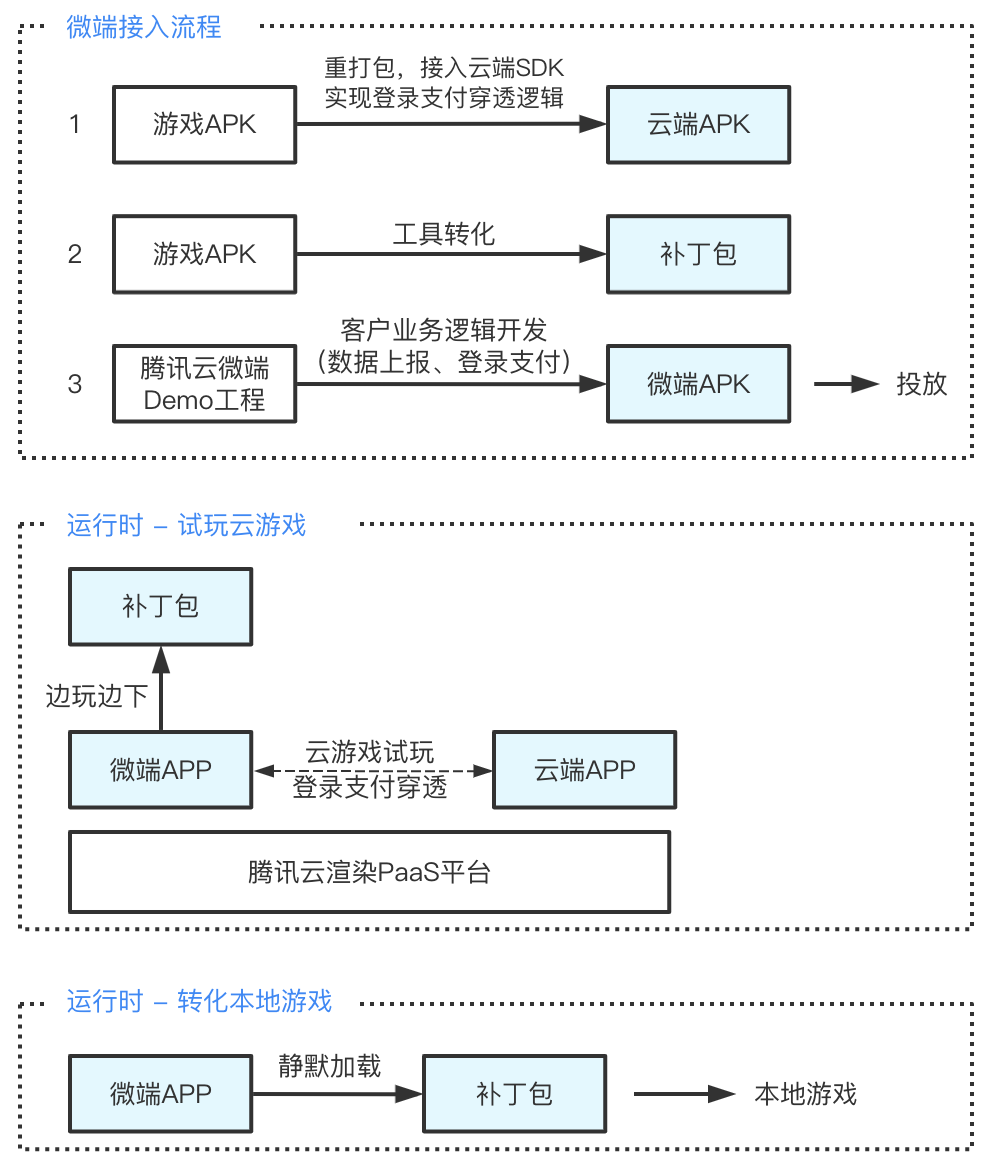
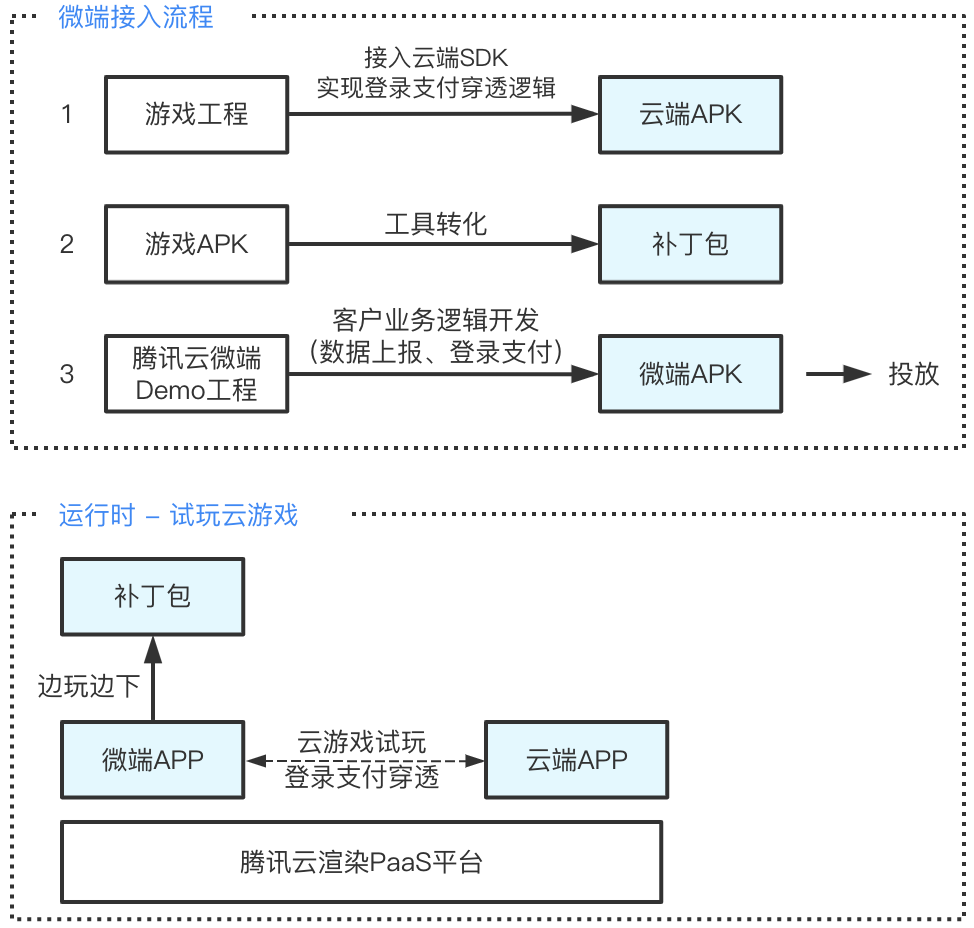
feat(TcrMicro): 更新流程图

diff --git a/TcrMicro/Doc/微端接入指南.md b/TcrMicro/Doc/微端接入指南.md
@@ -2,7 +2,7 @@
 
 该文档介绍了如何通过下载补丁包然后动态加载（热更新）的方式实现微端包到完整包的转化，并且还实现了登录/支付的穿透。
 
-**微端接入涉及的模块和关系如下。** 其中，您只需要实现游戏APK、微端APP、云端APP，其他模块由腾讯云提供。
+**微端接入涉及的模块和关系如下。** 其中，您只需要实现游戏APK（生成补丁包）、微端APK、云端APK，其他模块由腾讯云提供。
 
 <img
 src="images/微端各模块关系.png" width="400px" height="300px">
@@ -12,12 +12,12 @@ src="images/微端各模块关系.png" width="400px" height="300px">
 |  游戏APK    |  游戏APK，可以是任意安装包，用于生成补丁包。是微端APP热更新升级后的目标APP。    |
 |  微端APK    |  微端APK，集成了微端SDK，是用于广告投放的包体，供C端用户玩云游戏的载体。  |
 |  云端APK    |  云端APK，集成了云端SDK，运行于云端，是C端用户在微端上玩的云游戏。     |
-|  补丁包    |  补丁包，由游戏APK经过工具转化生成。微端APK在运行时从网络下载补丁包，动态加载后进行热更新，从而升级为完整本地游戏。     |
-|  微端SDK    |  微端SDK，集成了云游戏SDK和热更新SDK，实现了微端的应用逻辑，包括云游戏试玩，云端数据通道交互，补丁包的检查、下载、校验、合成，下载智能限速等交互逻辑。    |
-|  云游戏SDK   |  云游戏SDK，实现云游戏能力，是云游戏PAAS平台服务的终端能力封装。  |
+|  补丁包    |  补丁包，由游戏APK经过工具一键转化生成。微端APK在运行时从网络下载补丁包，动态加载后进行热更新，从而升级为完整本地游戏。     |
+|  微端SDK    |  微端SDK，集成了云游戏终端SDK和热更新SDK，实现了微端的应用逻辑，包括云游戏试玩，云端数据通道交互，补丁包的检查、下载、校验、合成，下载智能限速等交互逻辑。    |
+|  云游戏终端SDK   |  云游戏终端SDK，是云游戏PAAS平台提供的终端SDK，它实现了云游戏在终端上的通用功能，方便快速构建云游戏终端APP。  |
 |  热更新SDK   |  热更新SDK，实现热更新机制，包括补丁包处理合成、加载逻辑。实现微端APP转化为本地游戏。    |
 |  云端SDK    |  云端SDK，提供云端与终端数据通道能力，用于实现APP的登录和支付穿透的功能。   |
-|  微端云游戏后台  |  微端云游戏试玩的业务后台，调用云游戏PAAS平台服务，实现云试玩的业务层逻辑。  |
+|  微端云游戏后台  |  微端云游戏试玩的业务后台，调用云游戏PAAS平台的后端API，实现云试玩的业务层逻辑。  |
 
 &nbsp;
 
